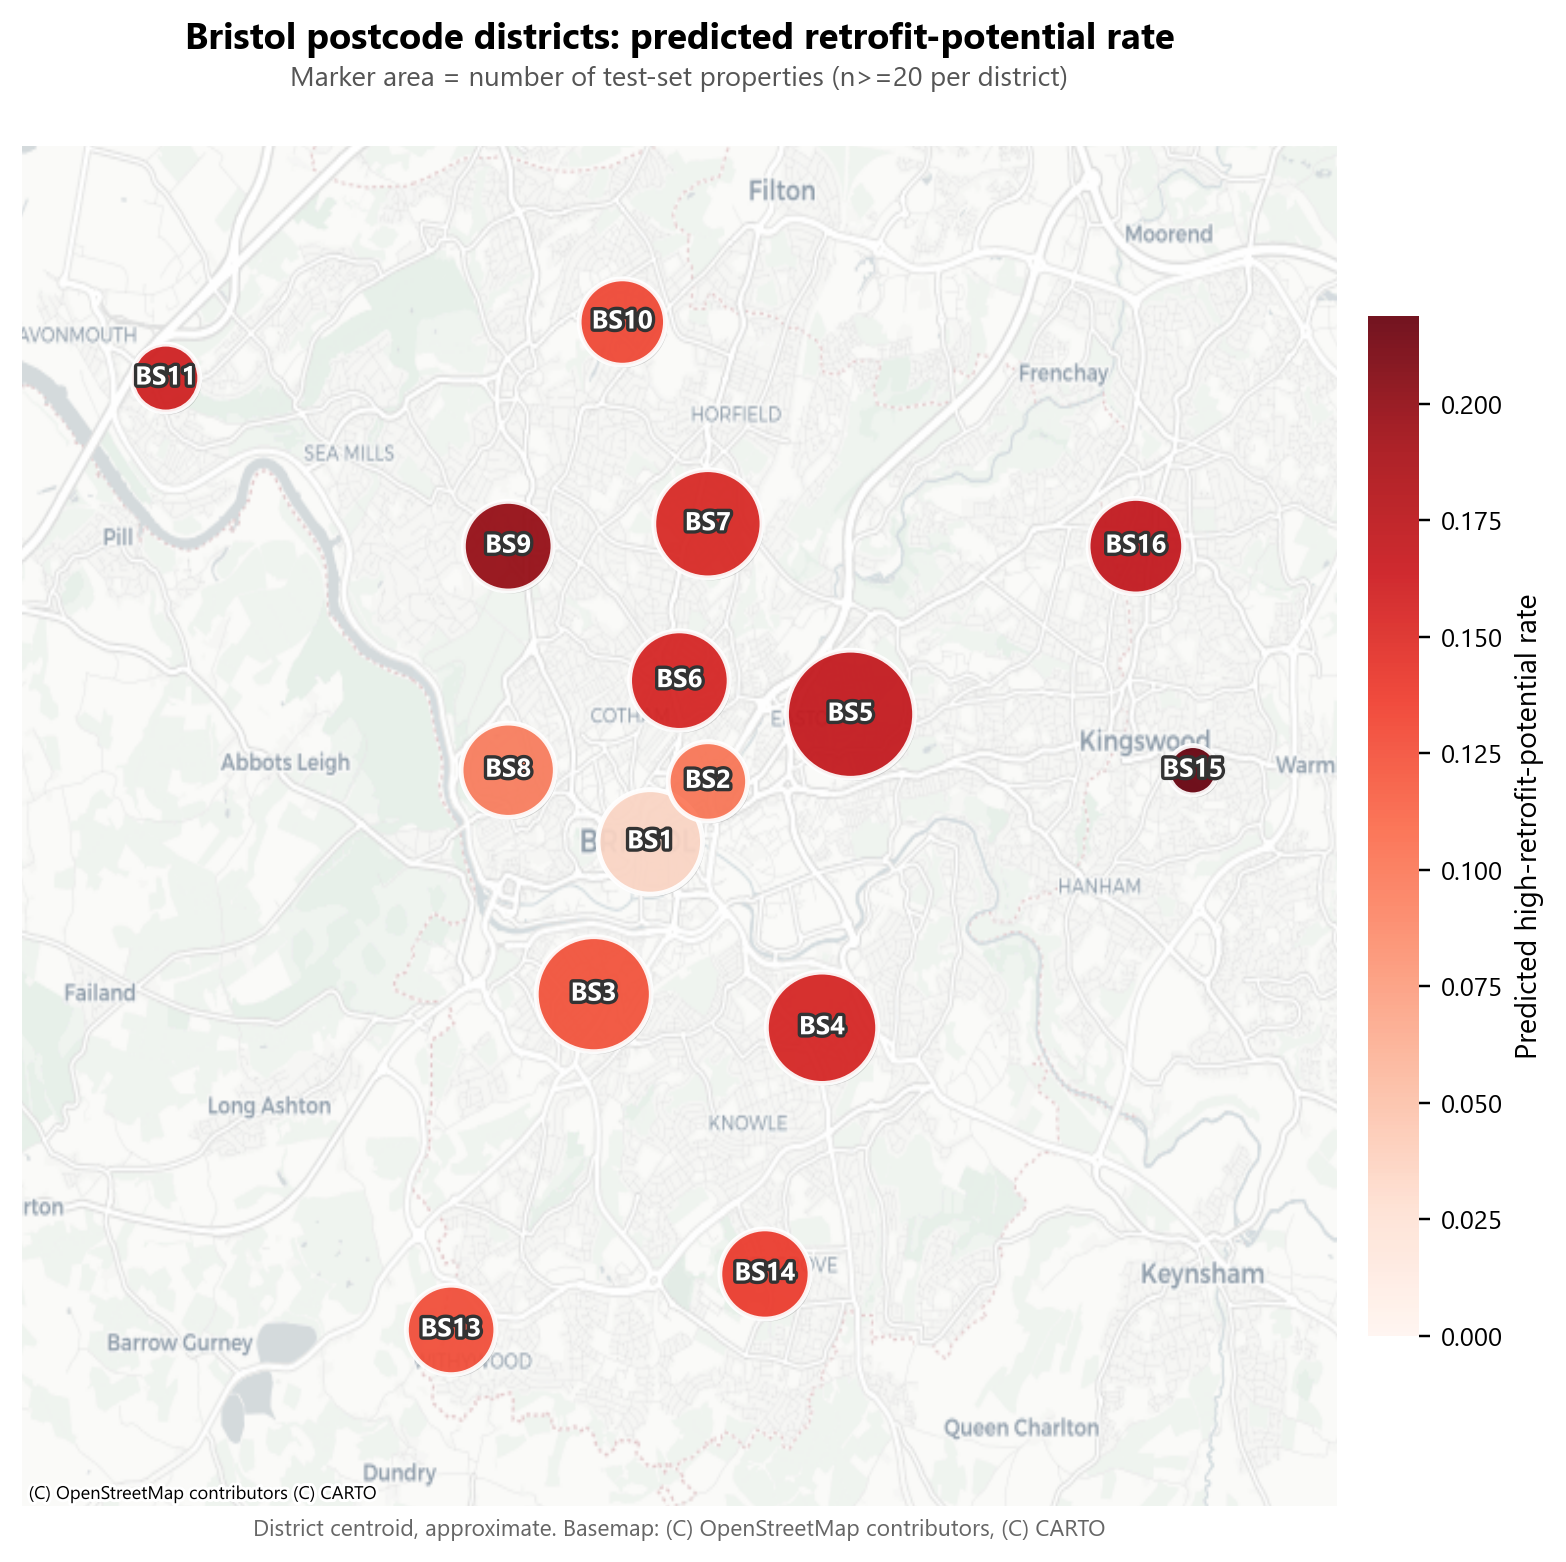
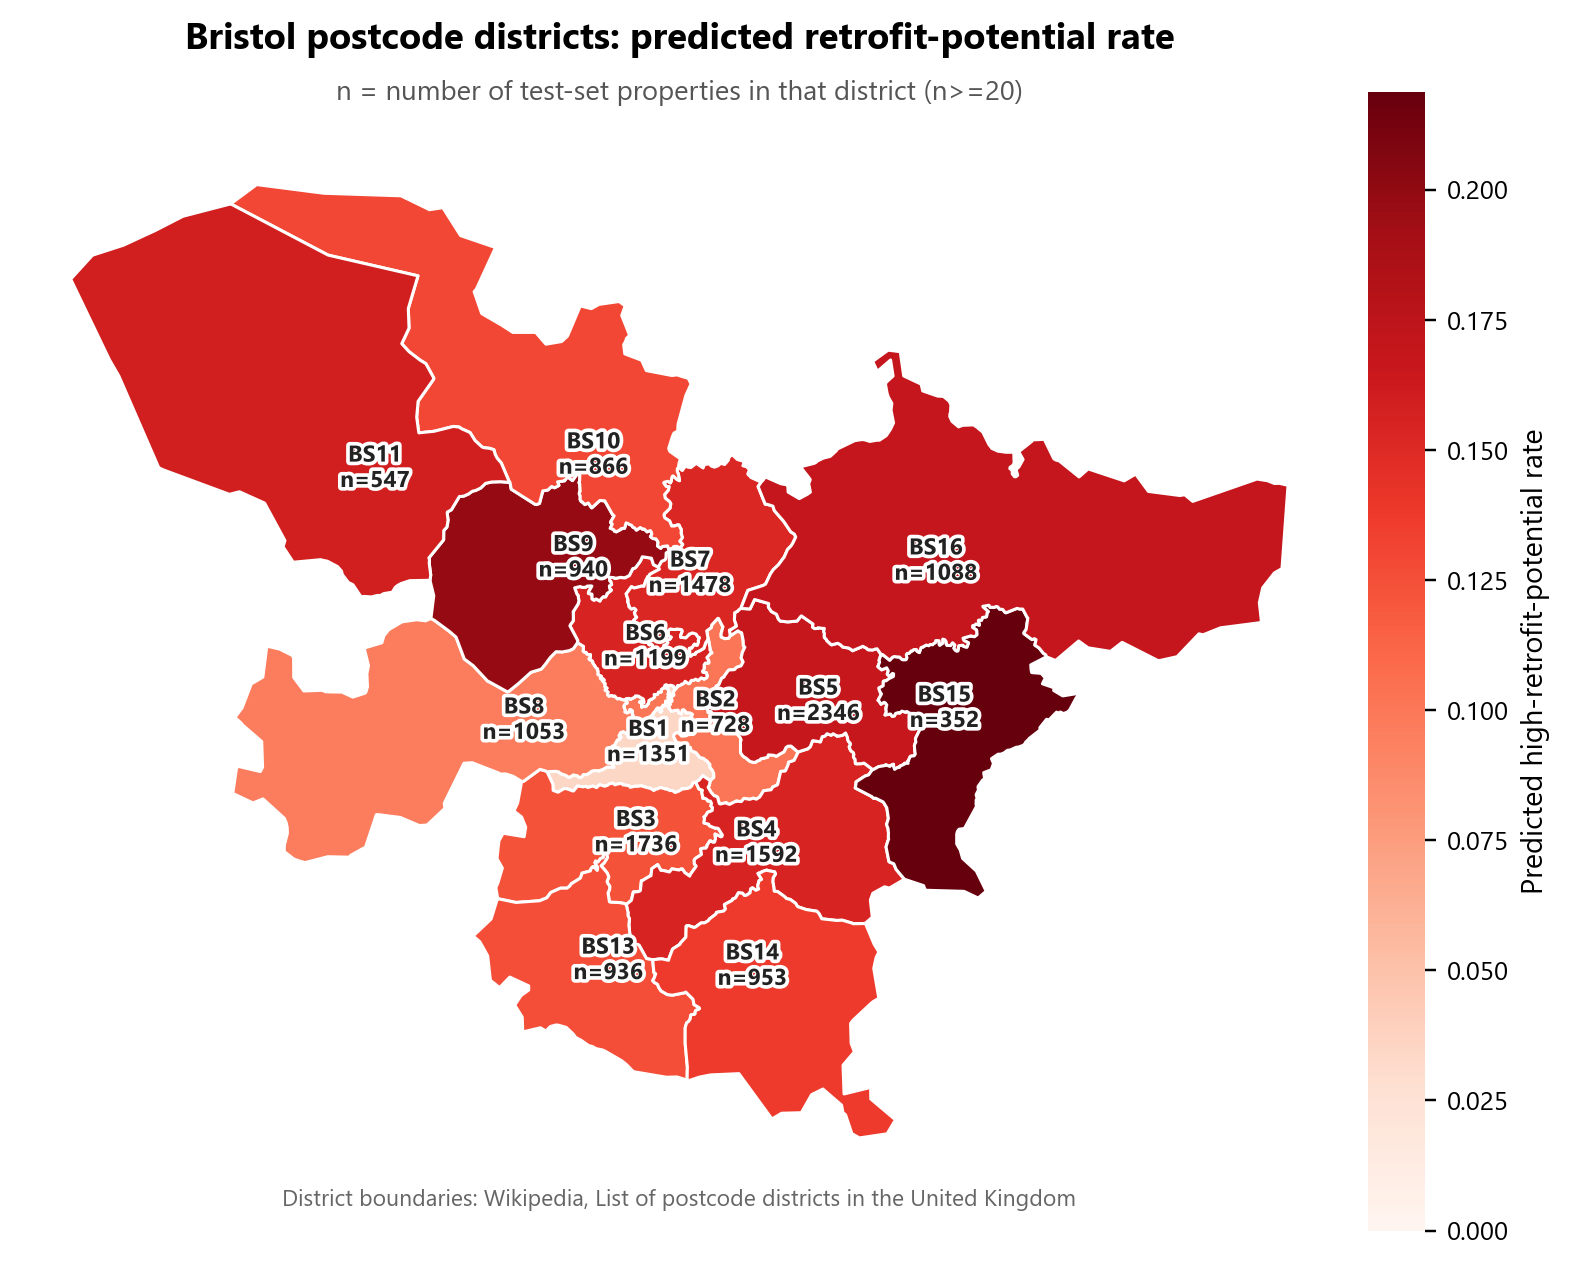
Replace Bristol dot-map-on-basemap with a real choropleth
The old figure plotted point markers over an OpenStreetMap/CARTO tile
background, which read more like a web-map screenshot than a report
figure. Rewritten to draw actual BS postcode-district boundary polygons
(from Wikipedia's postcode-district list, via the uk-postcode-polygons
GeoJSON export, saved locally as data/external/bs_postcode_districts.geojson)
filled by predicted retrofit-potential rate, no basemap tiles, no
geopandas/shapely dependency needed since only fill and label placement
are required. Drops the now-unused contextily/pyproj requirements.

diff --git a/src/make_bristol_map.py b/src/make_bristol_map.py
@@ -1,76 +1,110 @@
 """
 make_bristol_map.py
-Builds an area map of Bristol postcode districts (BS1, BS3, BS5, etc.),
+Builds a choropleth of Bristol postcode districts (BS1, BS3, BS5, etc.),
 coloured by the trained model's predicted high-retrofit-potential rate for
-that district's held-out test-set properties, drawn over a real OpenStreetMap
-basemap (via contextily) so the city is actually visible, not just floating
-circles on a blank background. Reads
-data/processed/bristol_district_summary.csv (produced by bristol_case_study.py).
+that district's held-out test-set properties. District shapes are real
+boundary polygons, not point markers on a basemap tile: from
+data/external/bs_postcode_districts.geojson, itself the postcode-district
+polygons for postcode area BS from Wikipedia's "List of postcode districts
+in the United Kingdom" (https://en.wikipedia.org/wiki/List_of_postcode_districts_in_the_United_Kingdom),
+retrieved via the uk-postcode-polygons GeoJSON export
+(https://github.com/missinglink/uk-postcode-polygons). Reads
+data/processed/bristol_district_summary.csv (produced by bristol_case_study.py)
+for the rate and property count per district.
 
-Marker position is still an approximate district centroid (public knowledge
-of Bristol's postcode-area geography), not a real boundary polygon, geopandas
-and ONS boundary shapefiles are not used here. Marker size encodes property
-count (sqrt-scaled, so area is proportional to count, not radius), colour
-encodes predicted-positive rate, both from real model output on real
-held-out data.
+No geopandas/shapely dependency: polygons are drawn directly from the
+GeoJSON coordinate arrays with matplotlib patches, since no geometric
+operations (only filling and centroid-for-label placement) are needed.
 
 Usage: python src/make_bristol_map.py
 """
+
+import json
 
 import numpy as np
 import pandas as pd
 import matplotlib.pyplot as plt
 import matplotlib.patheffects as pe
-import contextily as cx
-from pyproj import Transformer
+from matplotlib.patches import Polygon
+from matplotlib.collections import PatchCollection
+from matplotlib.cm import ScalarMappable
+from matplotlib.colors import Normalize
 
 DATA_DIR = "data/processed"
 FIGURES_DIR = "report/figures"
+GEOJSON_PATH = "data/external/bs_postcode_districts.geojson"
+
+
+def polygon_rings(geometry):
+    """Yield each polygon's exterior ring (list of [lon, lat] pairs) for a
+    GeoJSON Polygon or MultiPolygon geometry, ignoring holes."""
+    if geometry["type"] == "Polygon":
+        yield geometry["coordinates"][0]
+    elif geometry["type"] == "MultiPolygon":
+        for poly in geometry["coordinates"]:
+            yield poly[0]
+    elif geometry["type"] == "GeometryCollection":
+        for sub in geometry["geometries"]:
+            yield from polygon_rings(sub)
 
 
 def main():
     d = pd.read_csv(f"{DATA_DIR}/bristol_district_summary.csv")
-    d = d.sort_values("n", ascending=False)
+    d = d.set_index("district")
 
-    to_mercator = Transformer.from_crs("EPSG:4326", "EPSG:3857", always_xy=True)
-    x, y = to_mercator.transform(d["lon"].values, d["lat"].values)
-    d = d.assign(x=x, y=y)
+    with open(GEOJSON_PATH) as f:
+        geo = json.load(f)
 
     plt.rcParams["font.family"] = "sans-serif"
     plt.rcParams["font.sans-serif"] = ["Segoe UI", "Arial", "DejaVu Sans"]
 
     fig, ax = plt.subplots(figsize=(7.5, 7.2))
 
-    # Area, not radius, proportional to property count: sqrt-scale so the
-    # largest district doesn't visually dominate the plot.
-    radius = np.sqrt(d["n"])
-    sizes = 260 + 1500 * (radius - radius.min()) / (radius.max() - radius.min())
+    norm = Normalize(vmin=0, vmax=d["predicted_positive_rate"].max())
+    cmap = plt.get_cmap("Reds")
 
-    # Soft drop shadow first, then the marker on top, gives the dots real
-    # depth instead of the flat "plotted point" look.
-    ax.scatter(
-        d["x"] + 40, d["y"] - 40, s=sizes, c="black", alpha=0.15,
-        zorder=2, linewidths=0,
-    )
-    sc = ax.scatter(
-        d["x"], d["y"], s=sizes, c=d["predicted_positive_rate"],
-        cmap="Reds", vmin=0, edgecolors="white", linewidths=1.6, zorder=3,
-        alpha=0.92,
-    )
-    for _, row in d.iterrows():
-        ax.annotate(
-            row["district"], (row["x"], row["y"]),
-            ha="center", va="center", fontsize=8.5, fontweight="bold",
-            color="white", zorder=4,
-            path_effects=[pe.withStroke(linewidth=2.2, foreground="#333333")],
-        )
+    patches = []
+    colors = []
+    all_x, all_y = [], []
+    labelled = set()
 
-    pad = 0.14 * (d["x"].max() - d["x"].min())
-    ax.set_xlim(d["x"].min() - pad, d["x"].max() + pad)
-    ax.set_ylim(d["y"].min() - pad, d["y"].max() + pad)
-    cx.add_basemap(ax, source=cx.providers.CartoDB.Positron, attribution_size=6)
+    for feature in geo["features"]:
+        name = feature["properties"]["name"]
+        if name not in d.index:
+            continue
+        for ring in polygon_rings(feature["geometry"]):
+            ring = np.array(ring)
+            patches.append(Polygon(ring, closed=True))
+            colors.append(cmap(norm(d.loc[name, "predicted_positive_rate"])))
+            all_x.extend(ring[:, 0])
+            all_y.extend(ring[:, 1])
+            if name not in labelled:
+                cx, cy = ring[:, 0].mean(), ring[:, 1].mean()
+                n = int(d.loc[name, "n"])
+                ax.annotate(
+                    f"{name}\nn={n}", (cx, cy),
+                    ha="center", va="center", fontsize=7.5, fontweight="bold",
+                    color="#222222", zorder=4,
+                    path_effects=[pe.withStroke(linewidth=2.4, foreground="white")],
+                )
+                labelled.add(name)
 
-    cbar = fig.colorbar(sc, ax=ax, shrink=0.75, pad=0.02)
+    missing = set(d.index) - labelled
+    if missing:
+        print(f"Warning: no boundary found for districts {sorted(missing)}, skipped.")
+
+    ax.add_collection(PatchCollection(
+        patches, facecolor=colors, edgecolor="white", linewidths=1.0, zorder=2,
+    ))
+
+    pad_x = 0.04 * (max(all_x) - min(all_x))
+    pad_y = 0.04 * (max(all_y) - min(all_y))
+    ax.set_xlim(min(all_x) - pad_x, max(all_x) + pad_x)
+    ax.set_ylim(min(all_y) - pad_y, max(all_y) + pad_y)
+    ax.set_aspect(1 / np.cos(np.radians(np.mean(all_y))))
+
+    sm = ScalarMappable(norm=norm, cmap=cmap)
+    cbar = fig.colorbar(sm, ax=ax, shrink=0.75, pad=0.02)
     cbar.set_label("Predicted high-retrofit-potential rate", fontsize=9.5)
     cbar.outline.set_visible(False)
     cbar.ax.tick_params(labelsize=8.5)
@@ -80,11 +114,11 @@ def main():
         fontsize=12, fontweight="bold", pad=32,
     )
     ax.text(
-        0.5, 1.045, "Marker area = number of test-set properties (n>=20 per district)",
+        0.5, 1.045, "n = number of test-set properties in that district (n>=20)",
         transform=ax.transAxes, ha="center", fontsize=9, color="#555555",
     )
     ax.set_xlabel(
-        "District centroid, approximate. Basemap: (C) OpenStreetMap contributors, (C) CARTO",
+        "District boundaries: Wikipedia, List of postcode districts in the United Kingdom",
         fontsize=7.5, color="#666666",
     )
     ax.set_xticks([])

diff --git a/src/generate_report.py b/src/generate_report.py
@@ -1363,13 +1363,13 @@ def build_report(mode="full", two_column=False, name_tag=""):
         ):
             p_map = doc.add_paragraph()
             p_map.add_run(
-                "Predicted rate varies by district (Fig. 9), from BS1 (3.5%) to BS15 (21.9%); marker "
-                "position is an approximate centroid, not a real boundary."
+                "Predicted rate varies by district (Fig. 9), from BS1 (3.5%) to BS15 (21.9%)."
             )
             add_figure(doc,
                 f"{FIGURES_DIR}/07_bristol_district_map.png",
                 "Fig. 9. Predicted retrofit-potential rate by Bristol postcode district, test "
-                "set; marker area scales with the number of test-set properties in that district.",
+                "set, shown by real district boundary; label gives the number of test-set "
+                "properties in that district.",
                 two_column=two_column, dense=True
             )
         cap_bristol = doc.add_paragraph()
